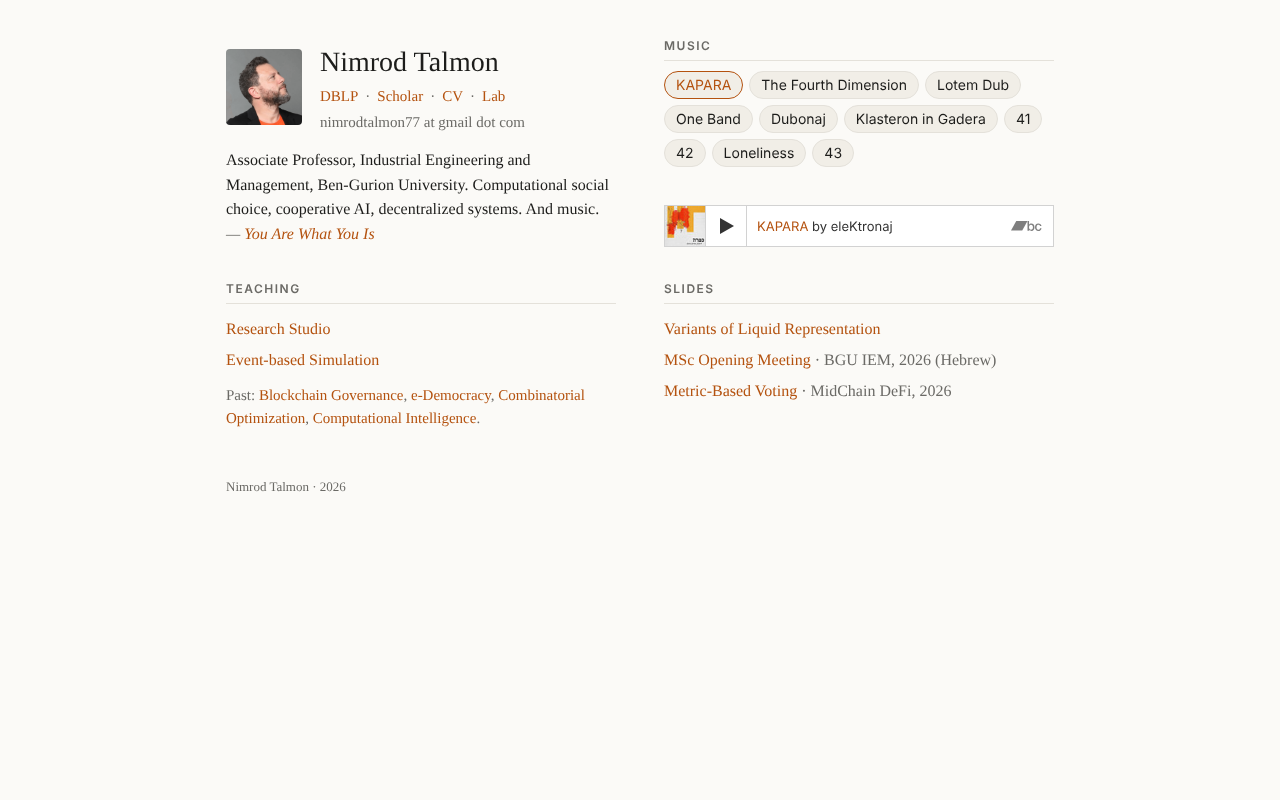
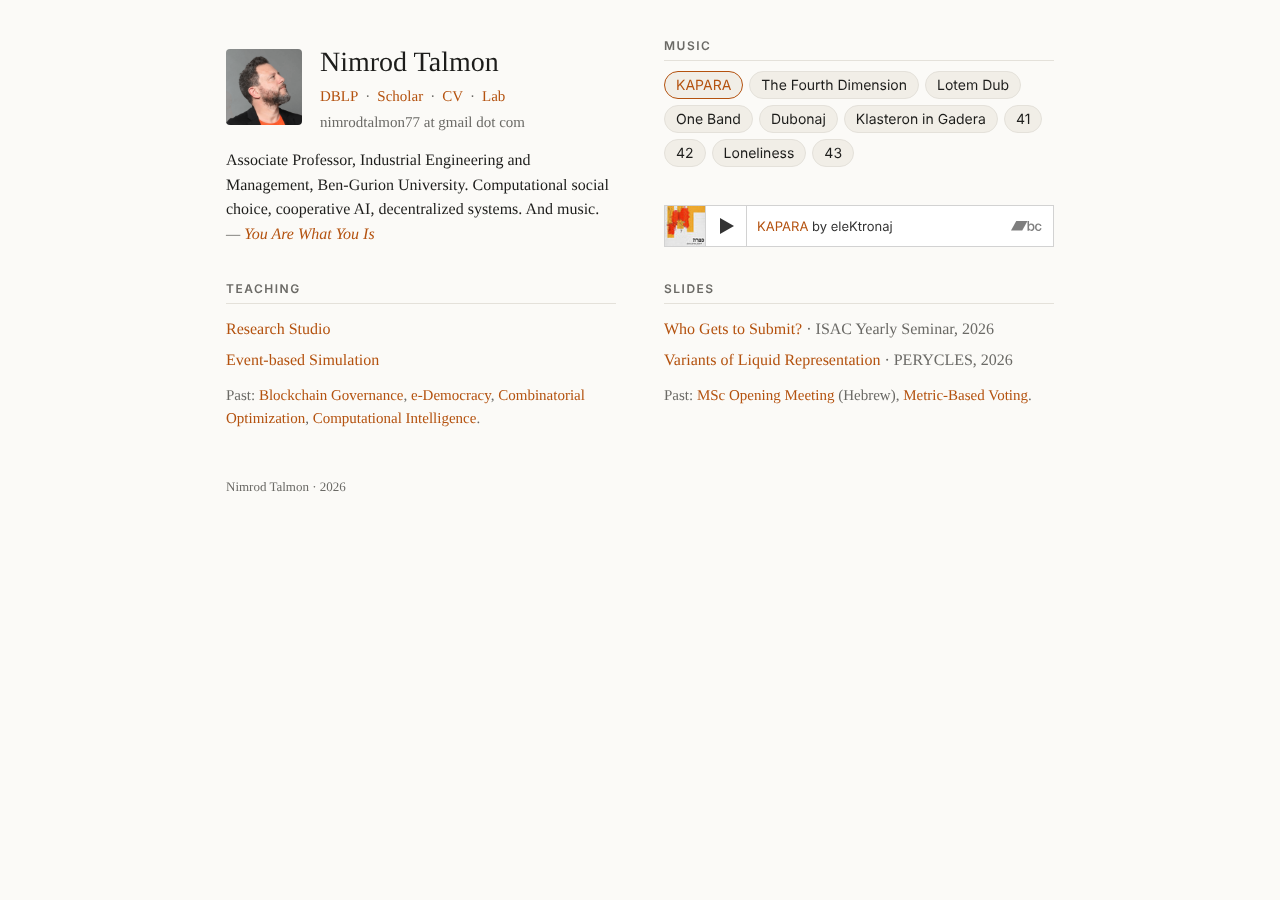
Homepage: older decks under Past
Claude-Session: https://claude.ai/code/session_01KZsDQxMehkBkH8t8K57vKH

diff --git a/index.html b/index.html
@@ -102,10 +102,12 @@
       <h2>Slides</h2>
       <ul>
         <li><a href="slides/who-gets-to-submit/">Who Gets to Submit?</a> <span class="muted">· ISAC Yearly Seminar, 2026</span></li>
-        <li><a href="slides/variants-of-liquid-representation/">Variants of Liquid Representation</a> <span class="muted">· PERYCLES meeting, 2026</span></li>
-        <li><a href="slides/msc-opening-2026/">MSc Opening Meeting</a> <span class="muted">· BGU IEM, 2026 (Hebrew)</span></li>
-        <li><a href="slides/metric-based-voting/">Metric-Based Voting</a> <span class="muted">· MidChain DeFi, 2026</span></li>
+        <li><a href="slides/variants-of-liquid-representation/">Variants of Liquid Representation</a> <span class="muted">· PERYCLES, 2026</span></li>
       </ul>
+      <p class="past muted">Past:
+        <a href="slides/msc-opening-2026/">MSc Opening Meeting</a> (Hebrew),
+        <a href="slides/metric-based-voting/" style="white-space:nowrap">Metric-Based Voting</a>.
+      </p>
     </section>
   </div>
 
